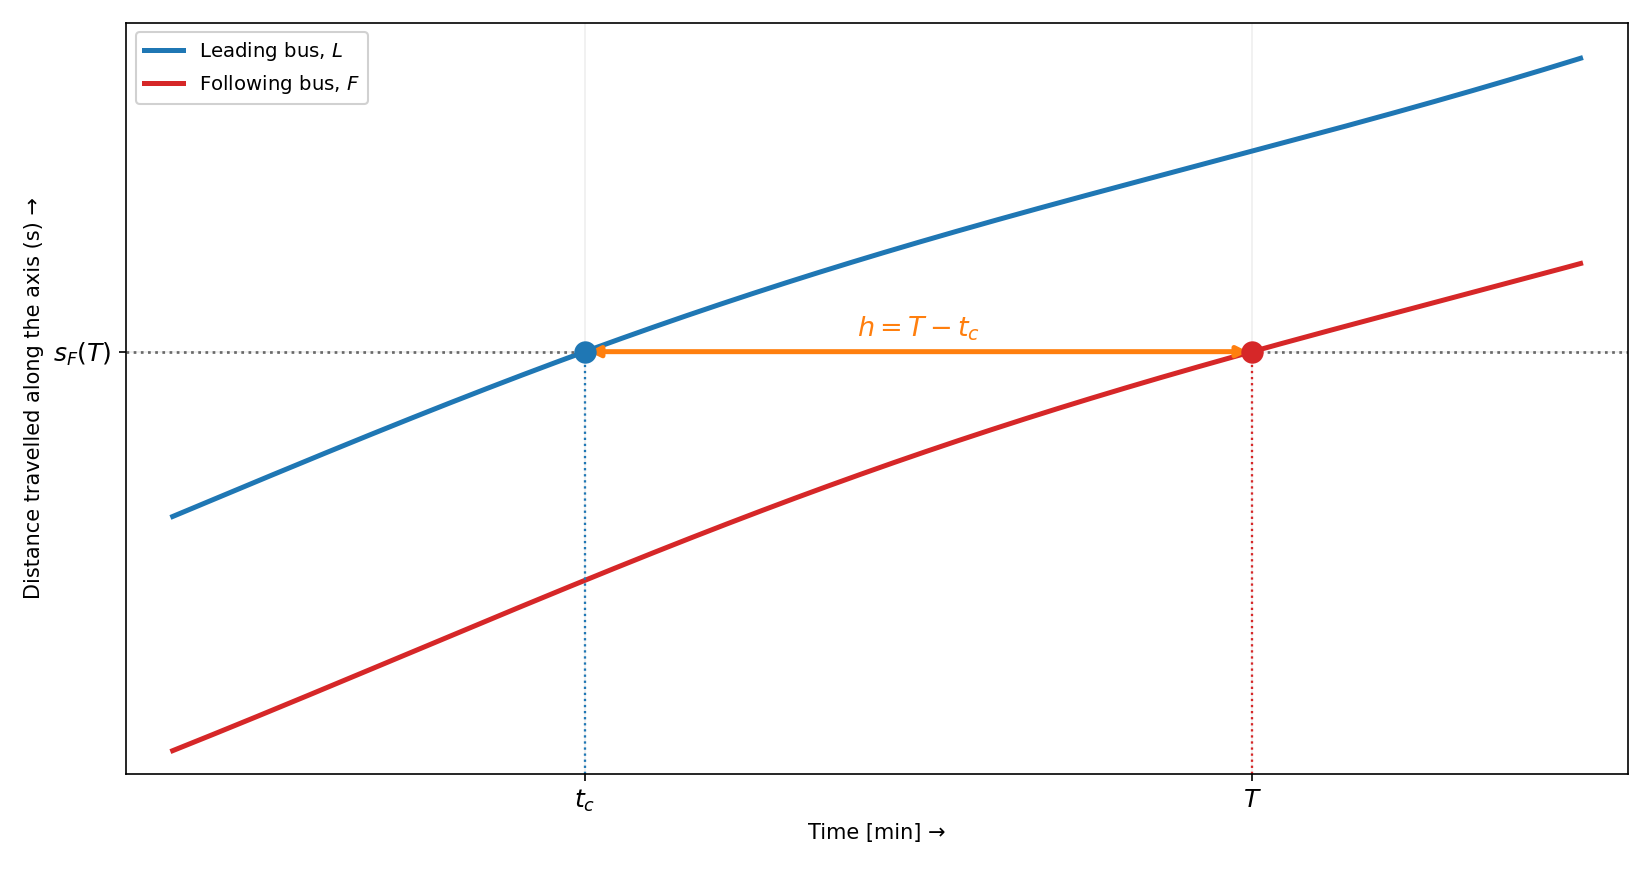
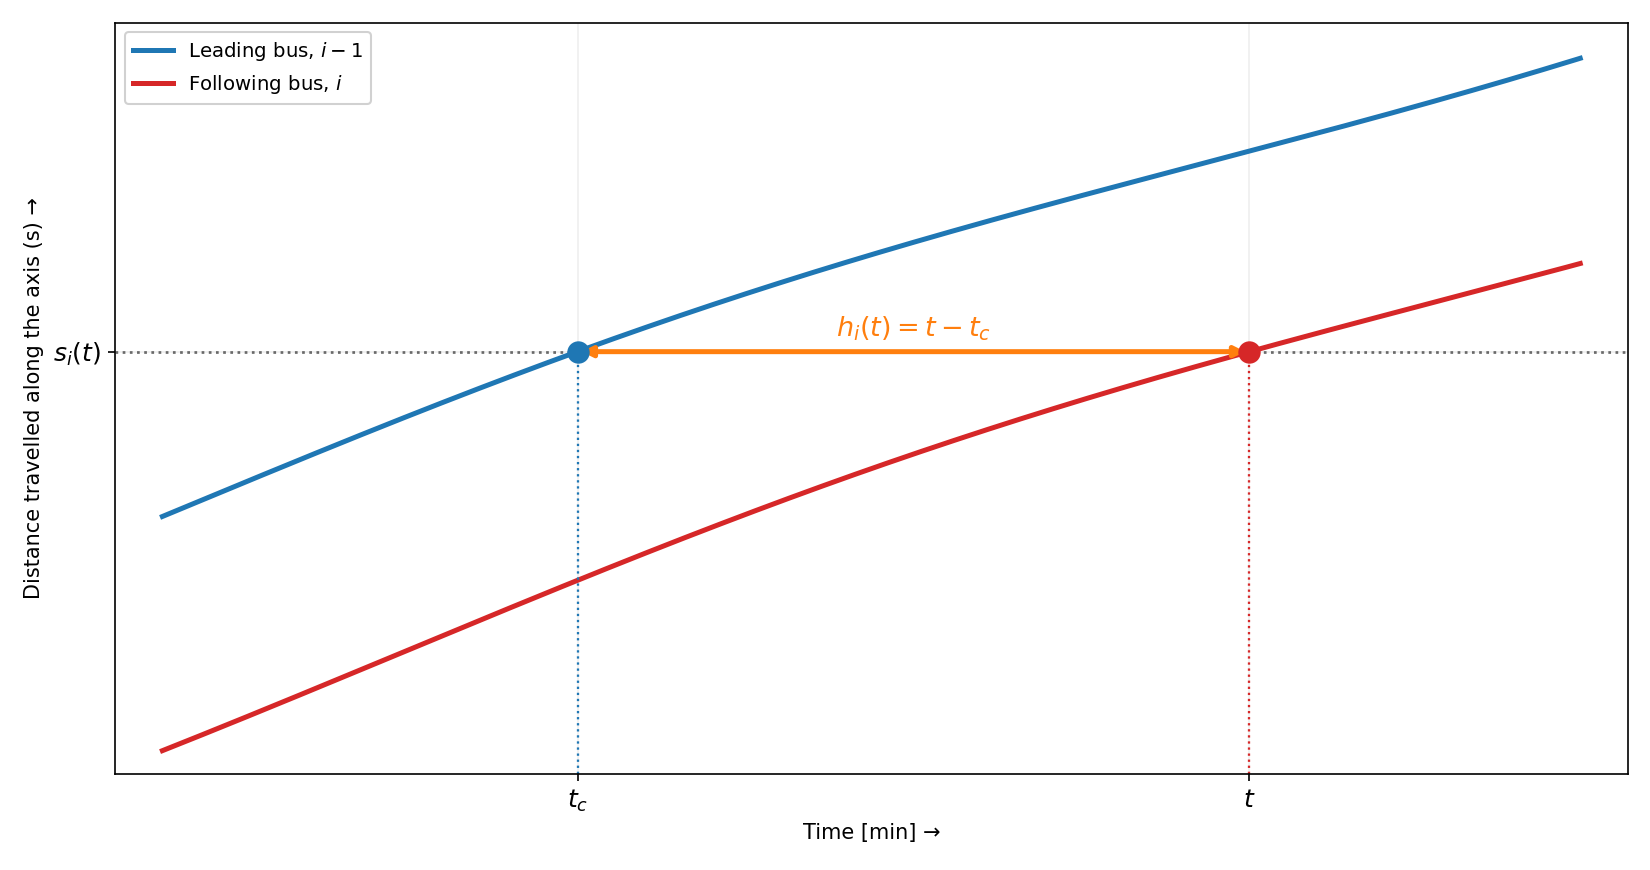
fix(paper): corregir datos del XGBoost, Yu, Sun y el máximo de treinta minutos, definir el conjunto de posiciones válidas y adoptar la notación de la literatura en las ecuaciones 1, 3, 8 y 10 y la figura 5

diff --git a/src/build_schematic_figures.py b/src/build_schematic_figures.py
@@ -134,8 +134,8 @@ LANG = {
         "leader_before": "el de adelante pasó\npor acá antes",
         "time_axis": "Tiempo [min] →",
         "distance_axis": "Distancia recorrida sobre el eje (s) →",
-        "leading_bus_sym": "Bus de adelante, $L$",
-        "following_bus_sym": "Bus de atrás, $F$",
+        "leading_bus_sym": "Bus de adelante, $i-1$",
+        "following_bus_sym": "Bus de atrás, $i$",
         "headway_caption": (
             "Trayectorias ilustrativas, no datos reales. Es una definición de cruce por coordenada, no por parada: no necesita una tabla de paradas,",
             "que es exactamente lo que falta en estos datos.",
@@ -214,8 +214,8 @@ LANG = {
         "leader_before": "the leader passed\nthrough here earlier",
         "time_axis": "Time [min] →",
         "distance_axis": "Distance travelled along the axis (s) →",
-        "leading_bus_sym": "Leading bus, $L$",
-        "following_bus_sym": "Following bus, $F$",
+        "leading_bus_sym": "Leading bus, $i-1$",
+        "following_bus_sym": "Following bus, $i$",
         "headway_caption": (
             "Illustrative trajectories, not real data. This is a crossing definition by position, not by stop: it needs no stop inventory,",
             "which is exactly what these data lack.",
@@ -590,8 +590,8 @@ def headway(*, lang: str = "es", chrome: bool = True) -> Path:
 
     fig, ax = plt.subplots(figsize=(11, 5.8))
 
-    # The clean variant speaks the notation of Eq. (9) and nothing else: the
-    # paper defines L, F, T, t_c and h, so plain-language callouts would be a
+    # The clean variant speaks the notation of Eq. (10) and nothing else: the
+    # paper defines i-1, i, t, t_c and h_i, so plain-language callouts would be a
     # second, looser definition next to the exact one.
     lead_key, follow_key = (
         ("leading_bus", "following_bus") if chrome
@@ -615,7 +615,7 @@ def headway(*, lang: str = "es", chrome: bool = True) -> Path:
     )
     ax.text(
         (t_now + t_cross) / 2.0, s_now + 13.0,
-        words["headway_callout"] if chrome else r"$h = T - t_c$",
+        words["headway_callout"] if chrome else r"$h_i(t) = t - t_c$",
         ha="center", fontsize=11.5 if chrome else 13.0, color=ACCENT,
         fontweight="bold",
     )
@@ -649,8 +649,8 @@ def headway(*, lang: str = "es", chrome: bool = True) -> Path:
         ax.set_yticks([])
     else:
         ax.set_ylim(bottom=float(follow.min()) - 20.0)
-        ax.set_xticks([t_cross, t_now], [r"$t_c$", r"$T$"], fontsize=12)
-        ax.set_yticks([s_now], [r"$s_F(T)$"], fontsize=12)
+        ax.set_xticks([t_cross, t_now], [r"$t_c$", r"$t$"], fontsize=12)
+        ax.set_yticks([s_now], [r"$s_i(t)$"], fontsize=12)
     ax.legend(loc="upper left", fontsize=9.5, framealpha=0.9)
     ax.grid(True, alpha=0.2)
 

diff --git a/docs/paper/paper.md b/docs/paper/paper.md
@@ -23,8 +23,7 @@ en tiempo, entre veinte segundos y tres minutos, y otros como una fracción del
 headway programado, de hasta un cuarto. El procedimiento supone que la segunda
 etapa hereda la mejora de la primera, y Yu y colaboradores lo reportan así: al
 predecir cinco paradas adelante en lugar de dos, su error subió de dos a seis
-minutos y la fracción de eventos detectados bajó del 99 % al 73 % [@yu2016]
-[@sun2021].
+minutos y la fracción de eventos detectados bajó del 100 % al 74 % [@yu2016].
 
 En nuestros datos esa suposición no se cumplió. Se predijo con una red LSTM
 (*long short-term memory*) el vector de headways de cada corredor: un headway
@@ -49,8 +48,9 @@ predicho.
 
 Ese efecto no se ha medido. Usama y Koutsopoulos predicen el vector completo de
 headways de una línea de metro y reportan solo el error en minutos
-[@usama2025]; Sun, Schmöcker y Nakamura llegan a la detección y dejan pendiente
-la curva que compararía a los métodos sin fijar un threshold [@sun2021].
+[@usama2025]; Sun, Schmöcker y Nakamura llegan a la detección, pero puntúan
+sin threshold solo a su clasificador probabilístico, y evalúan los métodos que
+predicen el headway con un threshold fijo [@sun2021].
 
 Este trabajo lo mide puntuando la misma detección con y sin threshold. Sin
 threshold, los headways predichos se ordenan de más corto a más largo, en
@@ -127,11 +127,11 @@ colaboradores corrigen el modelo, con un término de clasificación en la pérdi
 Lo que se predice es el **vector de headways** del corredor: un headway por cada
 par de buses consecutivos que circulan en el mismo sentido, con todas sus
 posiciones a la vez. El Apéndice A lo construye desde los registros GPS. Dado el
-historial de los últimos $T$ minutos y un contexto de calendario, se busca el
+historial de los últimos $L$ minutos y un contexto de calendario, se busca el
 vector del corredor $H$ minutos más adelante:
 
-$$\hat{\mathbf{h}}(t+H) \;=\; f\big(\mathbf{h}(t-T+1), \dots, \mathbf{h}(t);\;
-c(t-T+1), \dots, c(t)\big), \qquad T = 12, \tag{1}$$
+$$\hat{\mathbf{h}}(t+H) \;=\; f\big(\mathbf{h}(t-L+1), \dots, \mathbf{h}(t);\;
+c(t-L+1), \dots, c(t)\big), \qquad L = 12, \tag{1}$$
 
 donde $\mathbf{h}(t)$ es el vector de headways del corredor en el minuto $t$ y
 $\hat{\mathbf{h}}(t+H)$ es el vector predicho para $H$ minutos más adelante. El
@@ -142,13 +142,13 @@ modelo ajustado.
 Se predice a uno, tres, cinco y diez minutos, con un modelo ajustado por
 separado para cada horizonte. El vector no tiene longitud fija, porque la
 cantidad de buses varía minuto a minuto, de modo que el error se computa solo
-sobre las posiciones con bus. **El objetivo que se minimiza es el error
+sobre las posiciones con headway válido. **El objetivo que se minimiza es el error
 cuadrático**, promediado sobre esas posiciones:
 
 $$\mathcal{L} \;=\; \frac{1}{|\mathcal{V}|}\sum_{i \in \mathcal{V}}
 \big(\hat{h}_i - h_i\big)^{2}, \tag{2}$$
 
-donde $\mathcal{V}$ es el conjunto de posiciones del vector con bus asignado en
+donde $\mathcal{V}$ es el conjunto de posiciones del vector con headway válido en
 el instante objetivo, y $|\mathcal{V}|$ es su cardinal. Los términos $\hat{h}_i$
 y $h_i$ son el headway predicho y el headway observado en la posición $i$, en la
 escala estandarizada por sentido que fija el Apéndice A.2.
@@ -156,22 +156,23 @@ escala estandarizada por sentido que fija el Apéndice A.2.
 Los registros GPS no traen pasajeros ni estado del tránsito, de modo que el
 evento se define sobre la geometría del vector. La convención del campo marca el
 evento con una fracción de un headway de referencia, programado u observado
-(Sección II-A); el TCQSM, en cambio, usa la mitad del programado [@tcqsm2003].
+(Secciones I y II-A); el TCQSM, en cambio, usa la mitad del programado [@tcqsm2003].
 Estos corredores no tienen programación, y aquí la referencia es el promedio del
 propio vector en ese instante. Ese promedio refleja la separación normal de cada
 corredor, cosa que un threshold fijo en minutos no hace entre corredores de
 frecuencias distintas. La fracción de un medio se hereda del TCQSM y la
 sustitución es nuestra. El resultado es el ***event threshold***.
 
-Con el vector escrito por componentes como $\mathbf{h}(t) = (h_1, \dots, h_m)$,
-su promedio y el *event threshold* son
+Con $\mathcal{V}(t)$ el conjunto de posiciones con headway válido del vector
+$\mathbf{h}(t)$, su promedio y el *event threshold* son
 
-$$\bar{h}(t) \;=\; \frac{1}{m}\sum_{j=1}^{m} h_j(t),
+$$\bar{h}(t) \;=\; \frac{1}{m}\sum_{j \in \mathcal{V}(t)} h_j(t),
 \qquad \tau(t) \;=\; \rho\,\bar{h}(t), \qquad \rho = \tfrac{1}{2}, \tag{3}$$
 
-donde $m$ es la cantidad de posiciones con headway válido, $h_j(t)$ es el
-headway de la posición $j$ y $\rho$ es la fracción que fija el threshold
-$\tau(t)$; los pares sin headway válido del Apéndice A no entran en el cómputo.
+donde $m = |\mathcal{V}(t)|$ es la cantidad de posiciones con headway válido,
+$h_j(t)$ es el headway de la posición $j$ y $\rho$ es la fracción que fija el
+threshold $\tau(t)$; los pares sin headway válido del Apéndice A no entran en el
+cómputo.
 La posición $i$ cuenta como bunching cuando cae por debajo de ese threshold:
 
 $$b_i(t) \;=\; \mathbb{1}\!\left[\, h_i(t) < \tau(t) \,\right],
@@ -340,7 +341,7 @@ minutos.
 ### B. Error escalar y subdispersión
 
 El error de la predicción se mide con el error absoluto medio (MAE) sobre las
-posiciones con bus de la Ecuación (2). Se reporta en lugar del error cuadrático
+posiciones de la Ecuación (2). Se reporta en lugar del error cuadrático
 porque queda en minutos de headway. A diez minutos, el LSTM bajó el MAE de la
 persistencia entre 21 % y 22 %: 1.47 minutos en E2, 1.38 en E4 y 1.17 en E59.
 A un minuto ganó la persistencia en E4 y E59; en E2 la diferencia, de 0.07
@@ -350,9 +351,9 @@ El MAE no describe la forma del vector. El coeficiente de variación (CV) sí: e
 la desviación estándar del vector dividida por su promedio,
 
 $$\mathrm{CV}(\mathbf{h}) \;=\; \frac{1}{\bar{h}}
-\sqrt{\frac{1}{m-1}\sum_{j=1}^{m}\big(h_j - \bar{h}\big)^{2}}, \tag{8}$$
+\sqrt{\frac{1}{m-1}\sum_{j \in \mathcal{V}}\big(h_j - \bar{h}\big)^{2}}, \tag{8}$$
 
-donde $m$, $h_j$ y $\bar{h}$ son los de la Ecuación (3), y se calcula sobre los
+donde $\mathcal{V}$, $m$, $h_j$ y $\bar{h}$ son los de la Ecuación (3), y se calcula sobre los
 vectores de tres posiciones o más de la Ecuación (4). El CV vale 0 cuando todos
 los buses del corredor van igual de separados, y crece a medida que los
 headways se desigualan. No tiene unidades, de modo que compara corredores de
@@ -452,8 +453,8 @@ Figura 3). Puntuado mediante el AUC de la Sección IV-A, **el LSTM ganó en las
 nueve combinaciones de corredor y origen a diez minutos**, las nueve fuera de su
 intervalo, con diferencias de 0.033 a 0.061. En el origen 3 ganó en 6 de las 12
 celdas, y los tres orígenes coincidieron en el ganador de 11 de las 12. A un
-minuto ganó la persistencia en los tres corredores y los tres orígenes, igual
-que en el MAE.
+minuto ganó la persistencia en los tres corredores y los tres orígenes, como
+en el MAE de E4 y E59.
 
 El promedio histórico por posición de la Sección IV-A, que no lee la ventana de
 entrada, acota esa ventaja. En E4 y E59 el baseline queda cerca del azar, entre
@@ -632,22 +633,22 @@ queda descrito por un **snapshot**: la coordenada de todos los buses del
 corredor.
 
 Sobre ese snapshot, para un par de buses consecutivos en el mismo sentido —el de
-adelante $L$, el de atrás $F$— en el instante $T$:
+adelante $i-1$, el de atrás $i$— en el minuto $t$:
 
-$$t_{c} = \max\{\, t \le T \;:\; s_{L}(t) = s_{F}(T) \,\},
-\qquad h = T - t_{c}, \tag{10}$$
+$$t_{c} = \max\{\, t' \le t \;:\; s_{i-1}(t') = s_{i}(t) \,\},
+\qquad h_i(t) = t - t_{c}, \tag{10}$$
 
-donde $s_{L}$ y $s_{F}$ son las coordenadas de arco del bus de adelante y del de
-atrás. El instante $t_{c}$ es el último en que el de adelante pasó por la
-coordenada que el de atrás ocupa en $T$, y $h$ es el headway resultante. La
+donde $s_{i-1}$ y $s_{i}$ son las coordenadas de arco del bus de adelante y del
+de atrás. El instante $t_{c}$ es el último en que el de adelante pasó por la
+coordenada que el de atrás ocupa en $t$, y $h_i(t)$ es el headway resultante. La
 definición es la de Pilachowski [@pilachowski2009], que Andres y Nair evalúan en
 la coordenada del bus de atrás [@andres2017], y la Figura 5 la ilustra. Si no
-existe tal $t_{c}$, o si $h$ supera los treinta minutos, el par queda sin valor.
+existe tal $t_{c}$, o si $h_i(t)$ supera los treinta minutos, el par queda sin valor.
 
 ![El headway como cruce hacia atrás](figuras/esquema-headway.es.png)
 
 **Fig. 5.** El headway de la Ecuación (10) sobre dos trayectorias ilustrativas:
-el tiempo entre el paso del bus de adelante por la coordenada $s_F(T)$ y la
+el tiempo entre el paso del bus de adelante por la coordenada $s_i(t)$ y la
 llegada del de atrás a ella.
 
 Ese headway describe un solo par. En cada snapshot, los buses de un mismo
@@ -657,8 +658,9 @@ posiciones del vector —la primera es la del par que va más adelante—, y un 
 sin headway válido conserva su posición con «sin valor», para que el orden no
 dependa de cuántos pares resolvieron.
 
-El máximo de treinta minutos existe porque, sin él, dos calles paralelas
-proyectadas sobre un mismo eje producen cruces de horas antes. La cobertura —la
+El máximo de treinta minutos existe porque, cuando la trayectoria del bus de
+adelante tiene huecos, la búsqueda del cruce retrocede hasta una vuelta
+anterior, horas antes. La cobertura —la
 fracción de pares evaluados con headway válido— es del 63.5 % en E2, del 64.8 %
 en E4 y del 77.1 % en E59: 3 938 174 pares sobre 5 601 738 evaluados. Una
 posición sin headway válido se enmascara.
@@ -673,9 +675,9 @@ sentido, y con ellos el headway predicho vuelve a minutos.
   aprendizaje de 5 × 10⁻⁴, lotes de 128 y semilla 42. En dos de los tres
   corredores, su configuración viene de una búsqueda previa que no se rehízo
   sobre las muestras definitivas.
-- **XGBoost:** hasta 400 rondas, parada temprana tras 30 sin mejora y semilla
-  42, con la mejor de veinticuatro configuraciones por celda sobre las muestras
-  definitivas.
+- **XGBoost:** solo en el origen 3, hasta 800 rondas, parada temprana tras 40
+  sin mejora y semilla 42, con la mejor de veinticuatro configuraciones por celda
+  elegida en validación.
 - **Persistencia:** repite el último vector observado y no tiene parámetros.
 - **Promedio histórico por posición** [@rodrigues2022]: repite en cada minuto
   del período de prueba el headway promedio que cada posición registró en el
